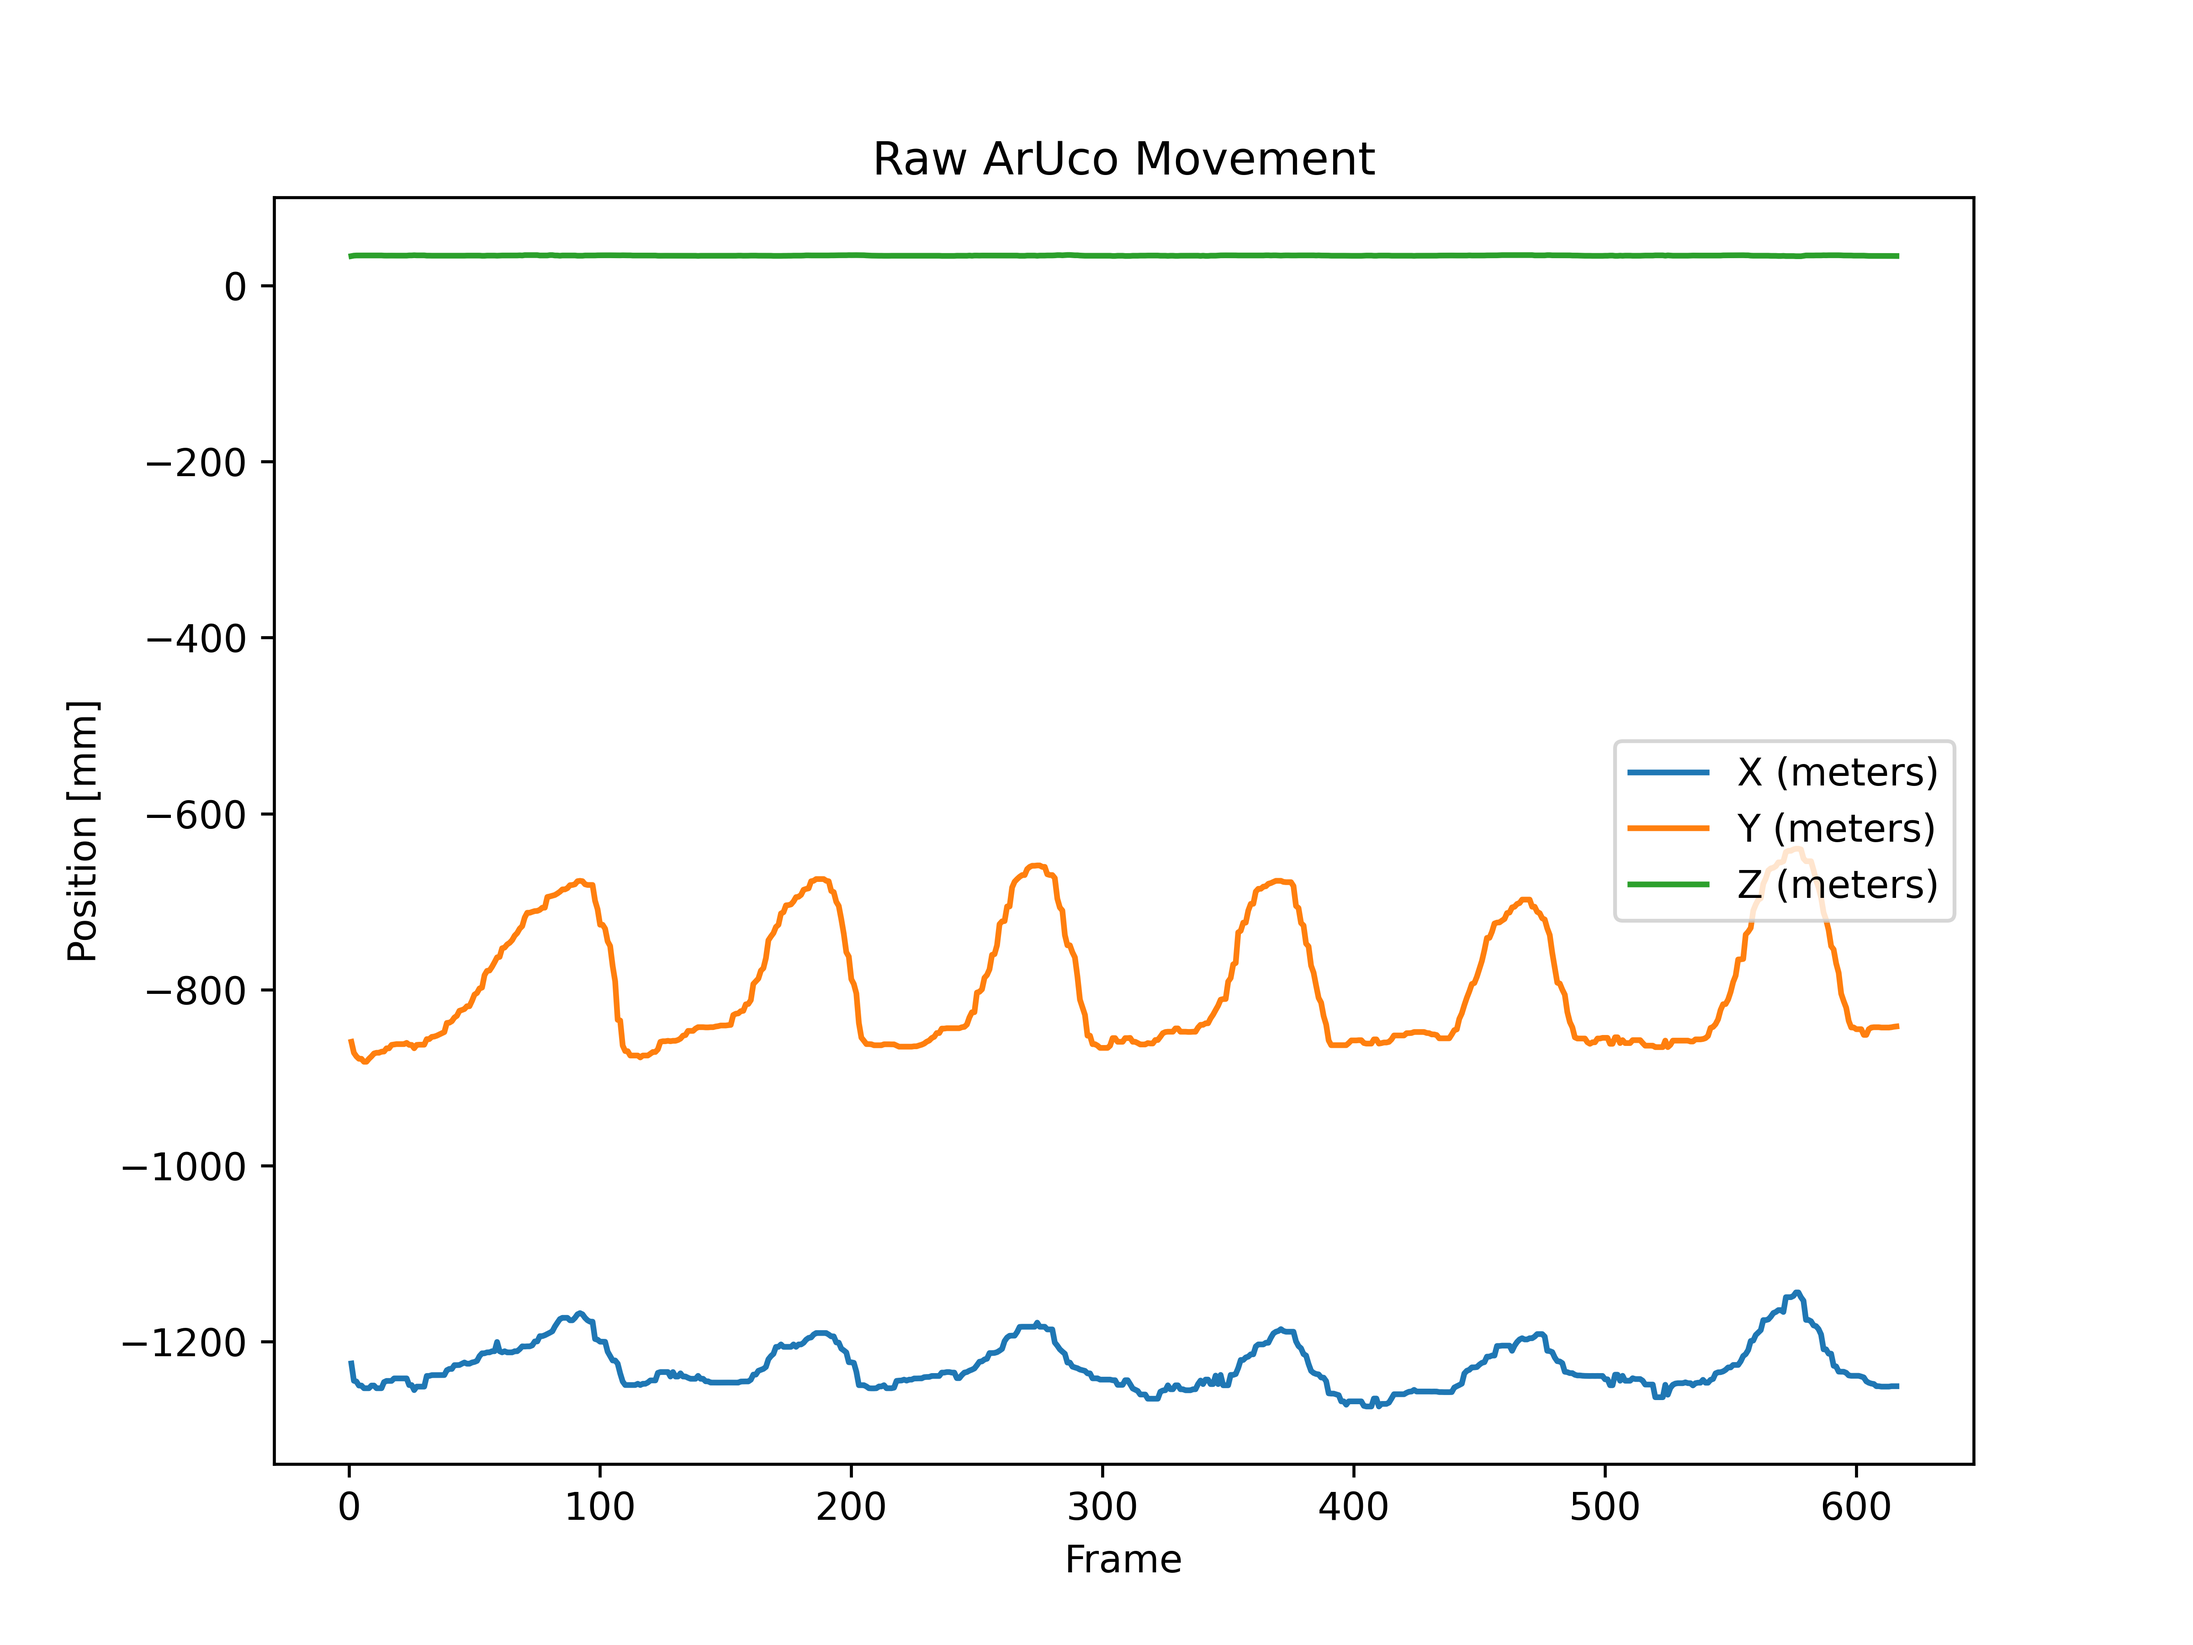
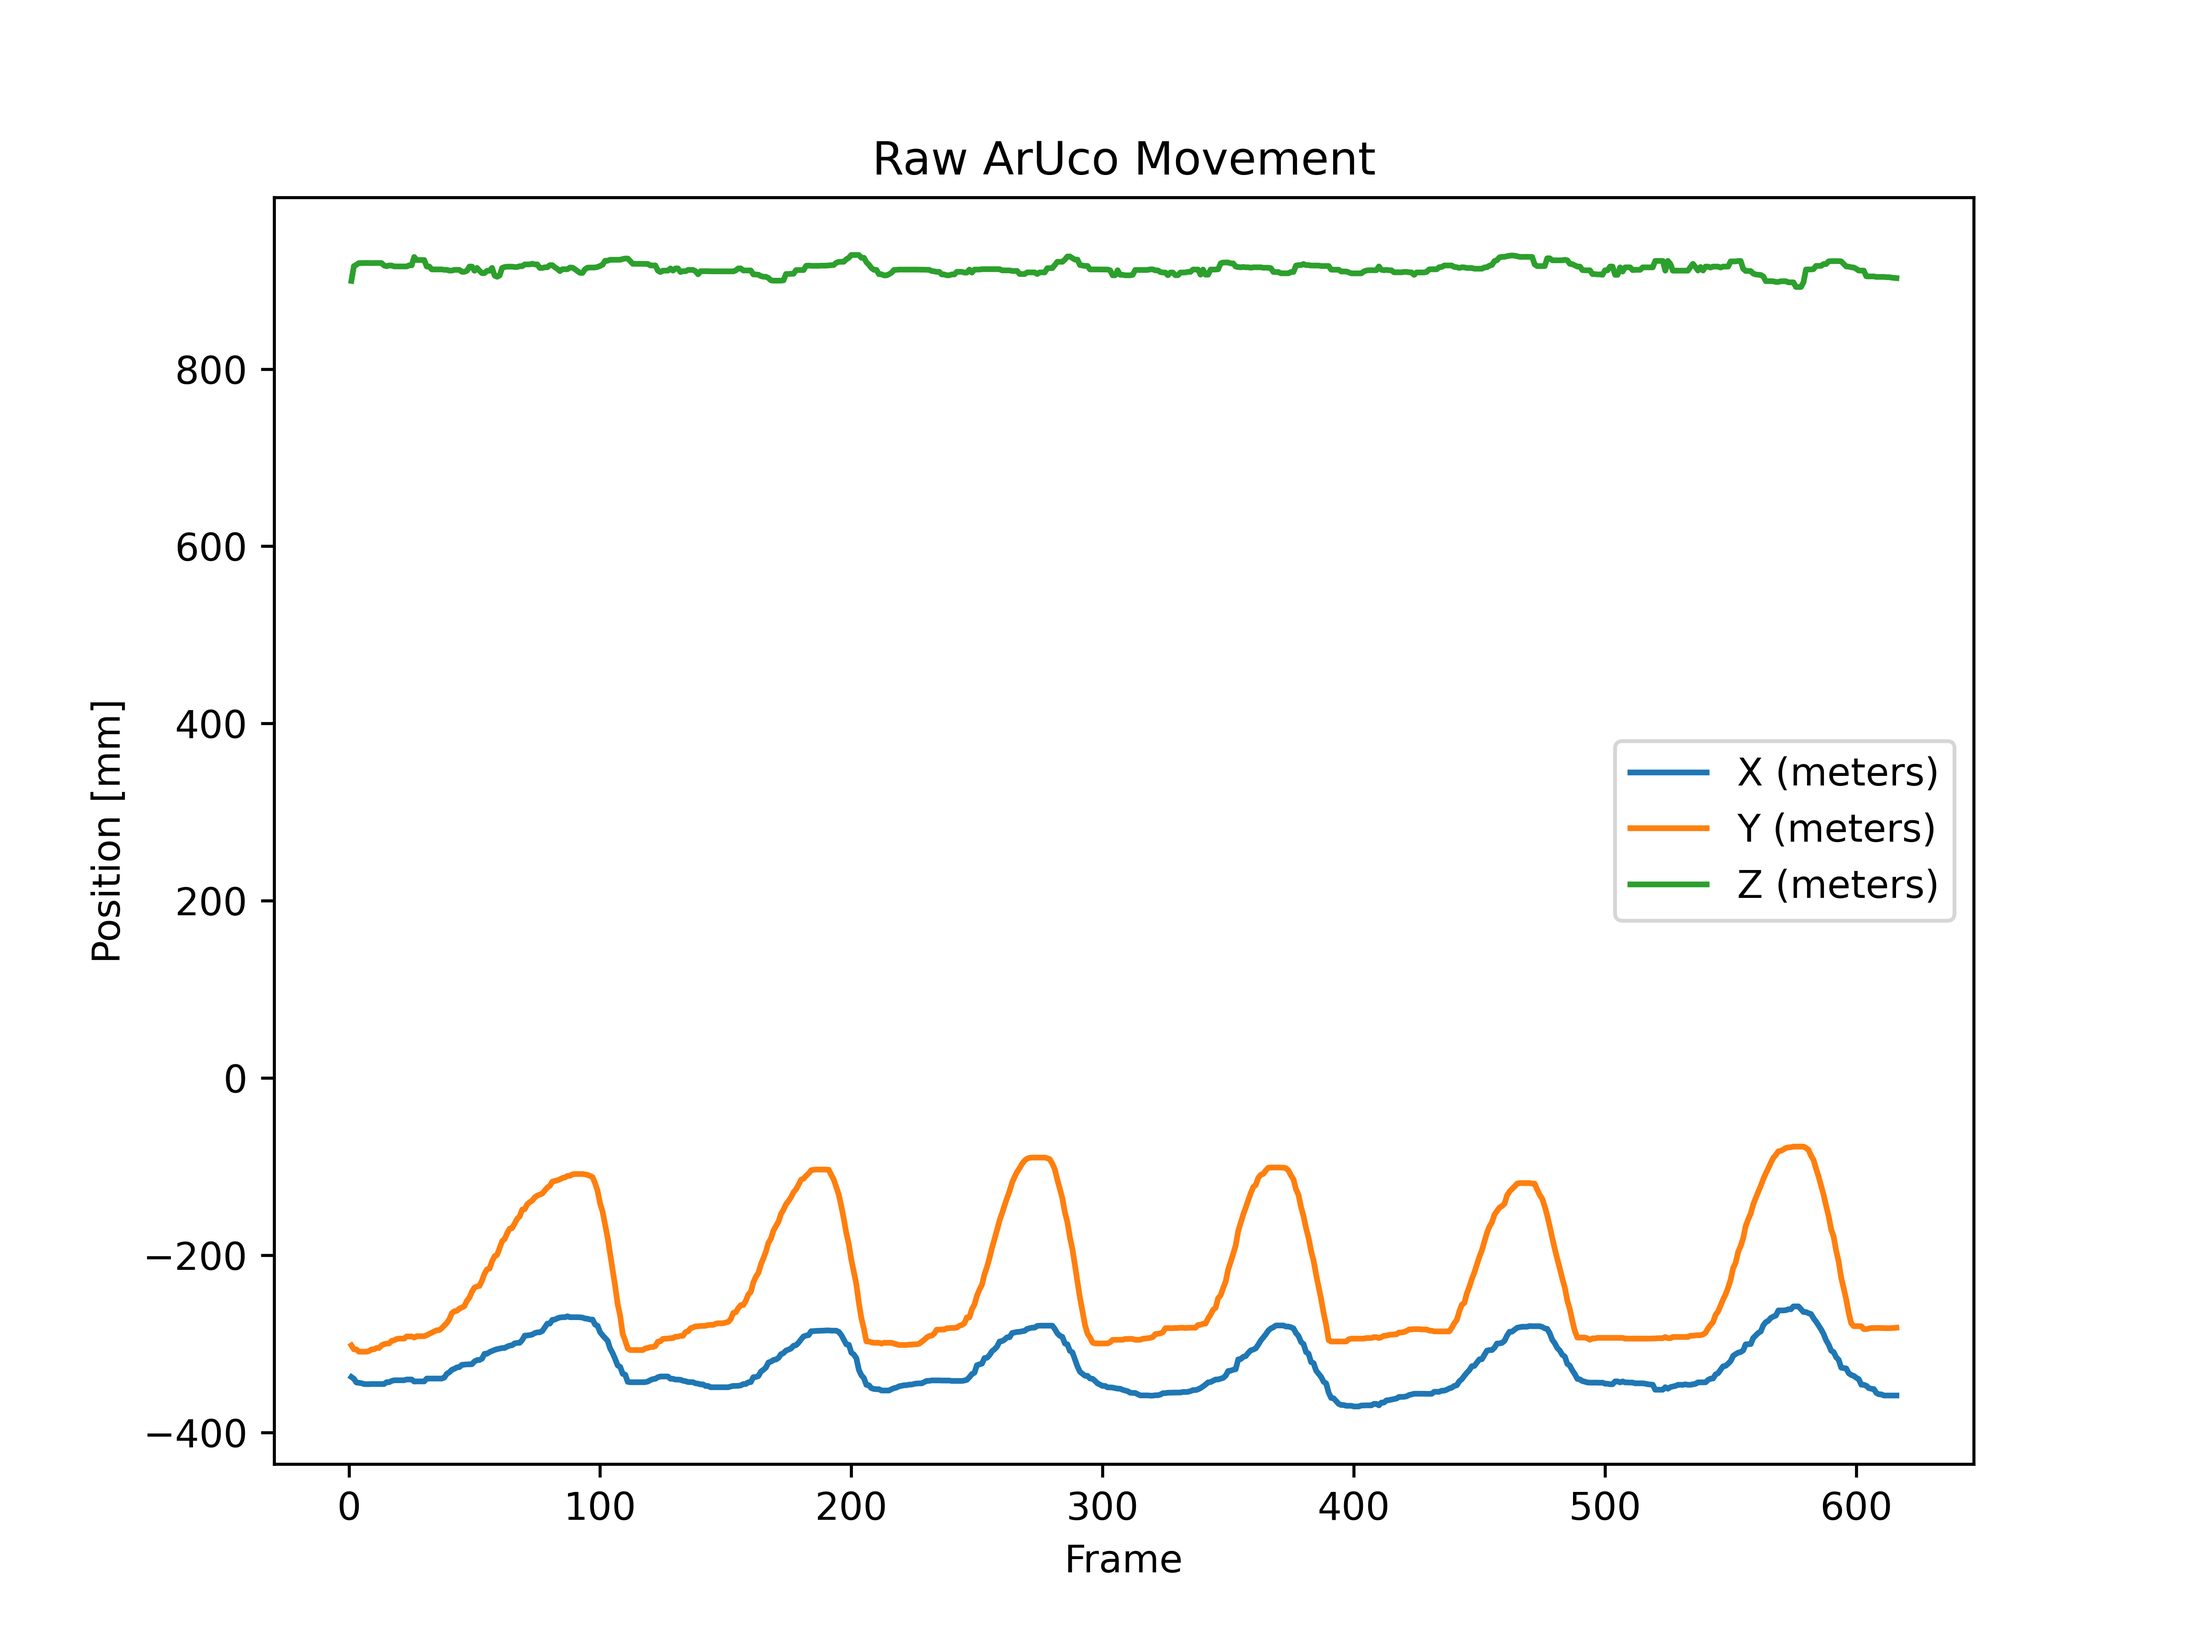
small changes to trpe images

diff --git a/trpe.html b/trpe.html
@@ -42,7 +42,7 @@
     <p>    One of the inherent issues with RPE is the failure for athletes to properly estimate the true value for various reasons, such as ego, adrenaline, excitement, disappointment, etc. In addition, some athletes have different definitions of RPE which do not follow the RIR structure, or the RPE is not standard across sets with varying numbers of repititions. This leads to false data being logged which will lead to poor future training. This effect is magnified when an athlete is incorrectly reporting RPE to their coach or trainer, as the trainer has no inuition as to the true feeling or exertion of their client during the lift.</p>     
 
     <p>    Therefore, the tRPE system is intended to: 1) create a user-friendly application to find key barbell kinemetics and metrics during a powerlift and 2) use the metrics to create a model capable of estimating the "True RPE" of the lift. The model will act as a standard where athletes can input their videos and receive an RPE estimation that can be compared to their recorded RPE. The result will provide athletes and coaches with a more reliable method of finding a key metric in strength training.</p>    
-    <p>     The project is currently a work in progress and the working features are shown below. The marker detection and metric algorithm are working, however, significant data must be collected to create a RPE model. The project is currently in the data collection phase.</p>
+    <p>     The project is currently a work in progress and the working features are shown below. An important note is that the intrinsic matrix for the camera is an estimate currently as the app is being developed. Therefore, the values are correct relative to each other but not correct in absolute terms. The marker detection and metric algorithm are working, however, significant data must be collected to create a RPE model. The project is currently in the data collection and app development phase.</p>
 
     <h3>Media and Documents</h3>
     <div style="font-weight:bold; margin:1.2em 0;">Below are some images and videos demonstrating the current functions of the tRPE system.</div>
